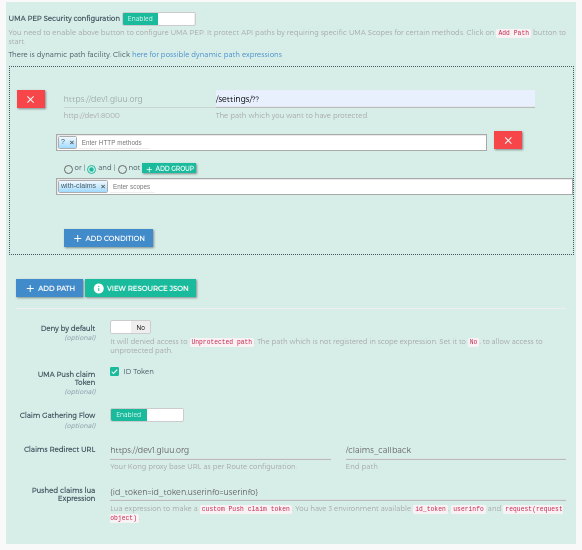
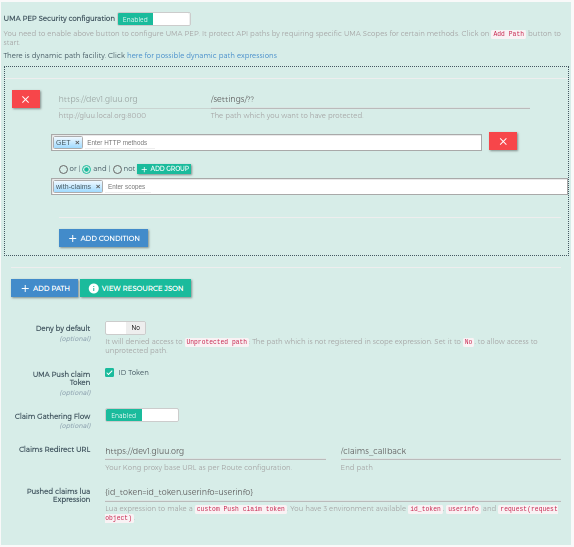
Updated oidc plugin and release note section

diff --git a/docs/source/tutorials/oidc-uma-tutorial.md b/docs/source/tutorials/oidc-uma-tutorial.md
@@ -81,7 +81,7 @@ Follow these steps to add a route:
 |Fields|Value|Description|
 |-----|-------|----------|
 |Path|/settings/?|it will protect path `/settings/` and also any sub path in settings path.|
-|HTTPMethods|?|it will used to protect the HTTP Methods. `?` means all the HTTP methods. For Example: `GET`, `POST`, all others.|
+|HTTPMethods|GET|it will used to protect the HTTP Methods. `GET` means for the GET HTTP methods. You can configure as your requirement For Example: `GET`, `POST`, all others.|
 |scope|with-claims|it is just a name of the scope. GG UI will create UMA scope in your Gluu CE. In Gluu CE UI(oxtrust) you need to add the UMA Policy in this scope|  
 |Deny By Default|No(false)|it is optional. `false` means it is will allow unprotected path i.e. the path which is not registered. We registered only `/settings/??` path so except this path all other path are unprotected path.|
 |Pushed Claim Token Lua expression|{id_token=id_token,userinfo=userinfo}|it is optional. If you want to pass Push claim token to get RPT Token then you need to enable `UMA Push Claim Token: True ID Token` in form and configure this expression. Plugin will pass this value to your UMA Policy and you can use this values to authorized the User. <br/> Currently in default expression ti passing both values but you can modify it. Check [here](../../plugin/gluu-openid-connect-uma-pep/#configure-pushed-claims-lua-expression) for more about expression and build UMA policy.|

diff --git a/docs/source/release-notes.md b/docs/source/release-notes.md
@@ -57,6 +57,7 @@ A description of our plugins follows:
 - [#336](https://github.com/GluuFederation/gluu-gateway/issues/336) : GG UI: Remove extra API for plugin config
 - [#325](https://github.com/GluuFederation/gluu-gateway/issues/325) : Usage and metrics tracking
 - [#384](https://github.com/GluuFederation/gluu-gateway/issues/384) : gluu-metrics gluu_prometheus_server_host DNS resolution and architectural issues
+- [#418](https://github.com/GluuFederation/gluu-gateway/issues/418) : resty/hmac.lua throwing error in kong 1.5 and Bump Kong version to 2.0.0
 
 ### Bug Fix
 - [#411](https://github.com/GluuFederation/gluu-gateway/issues/411) : Bug in gluu-metrics plugin 
